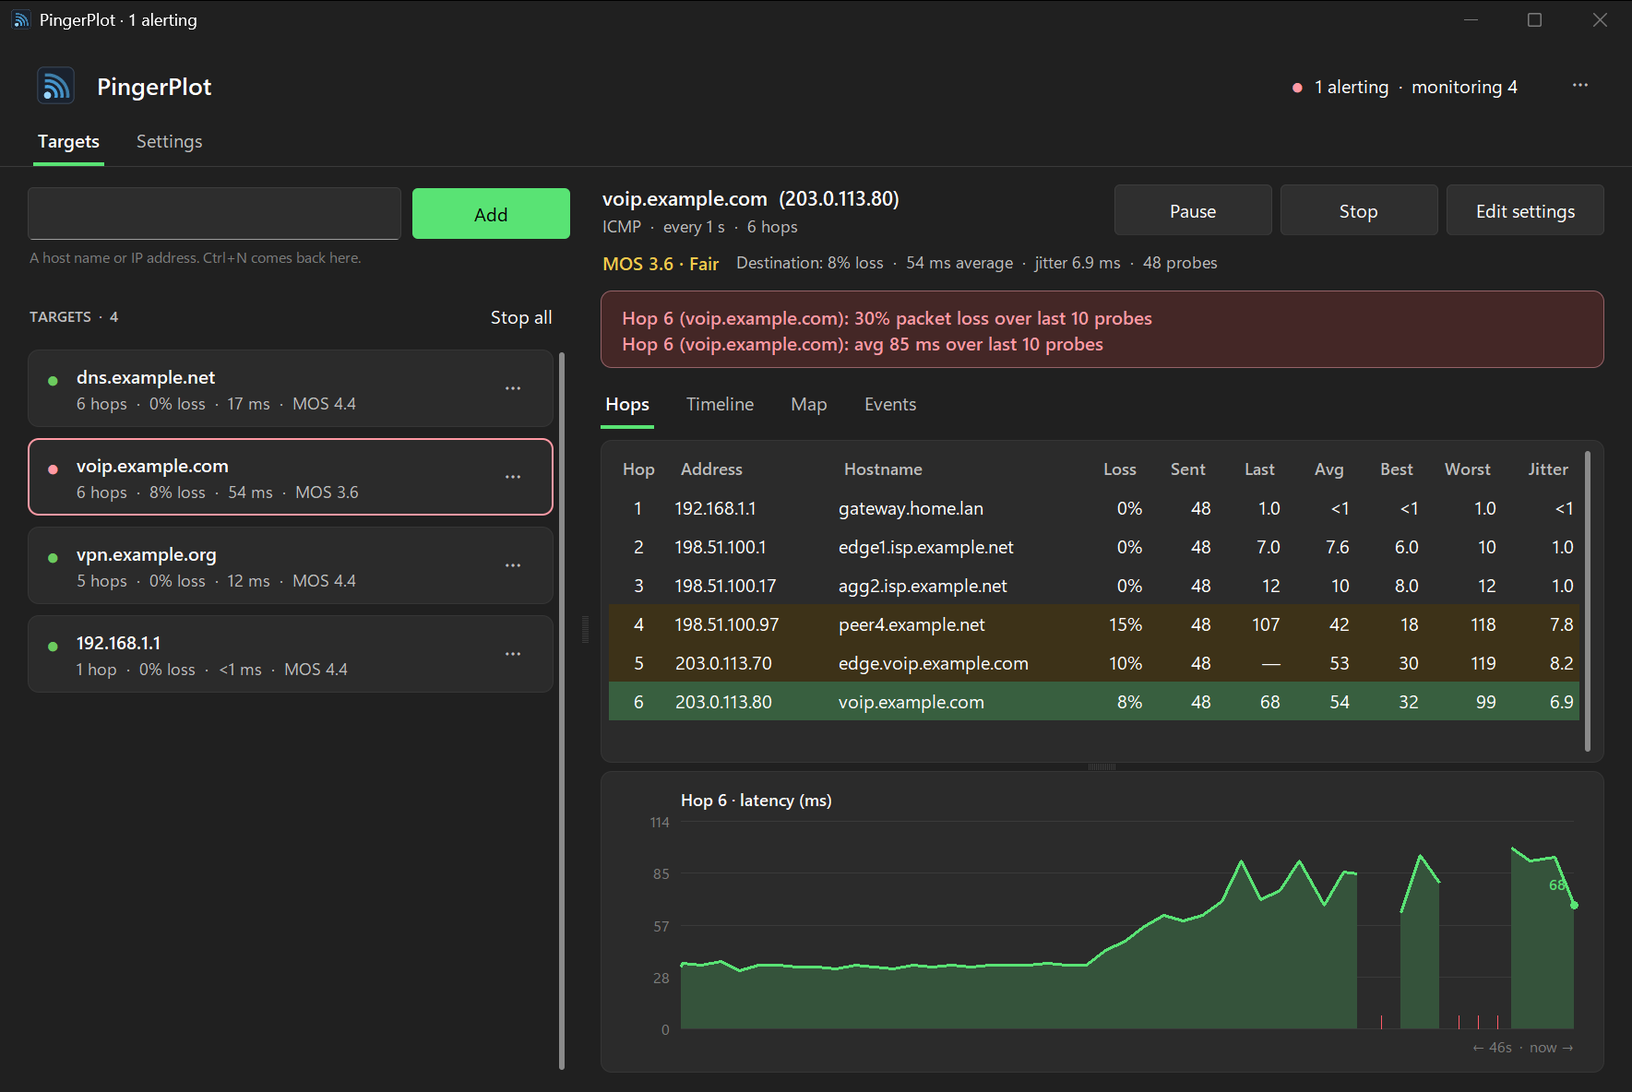
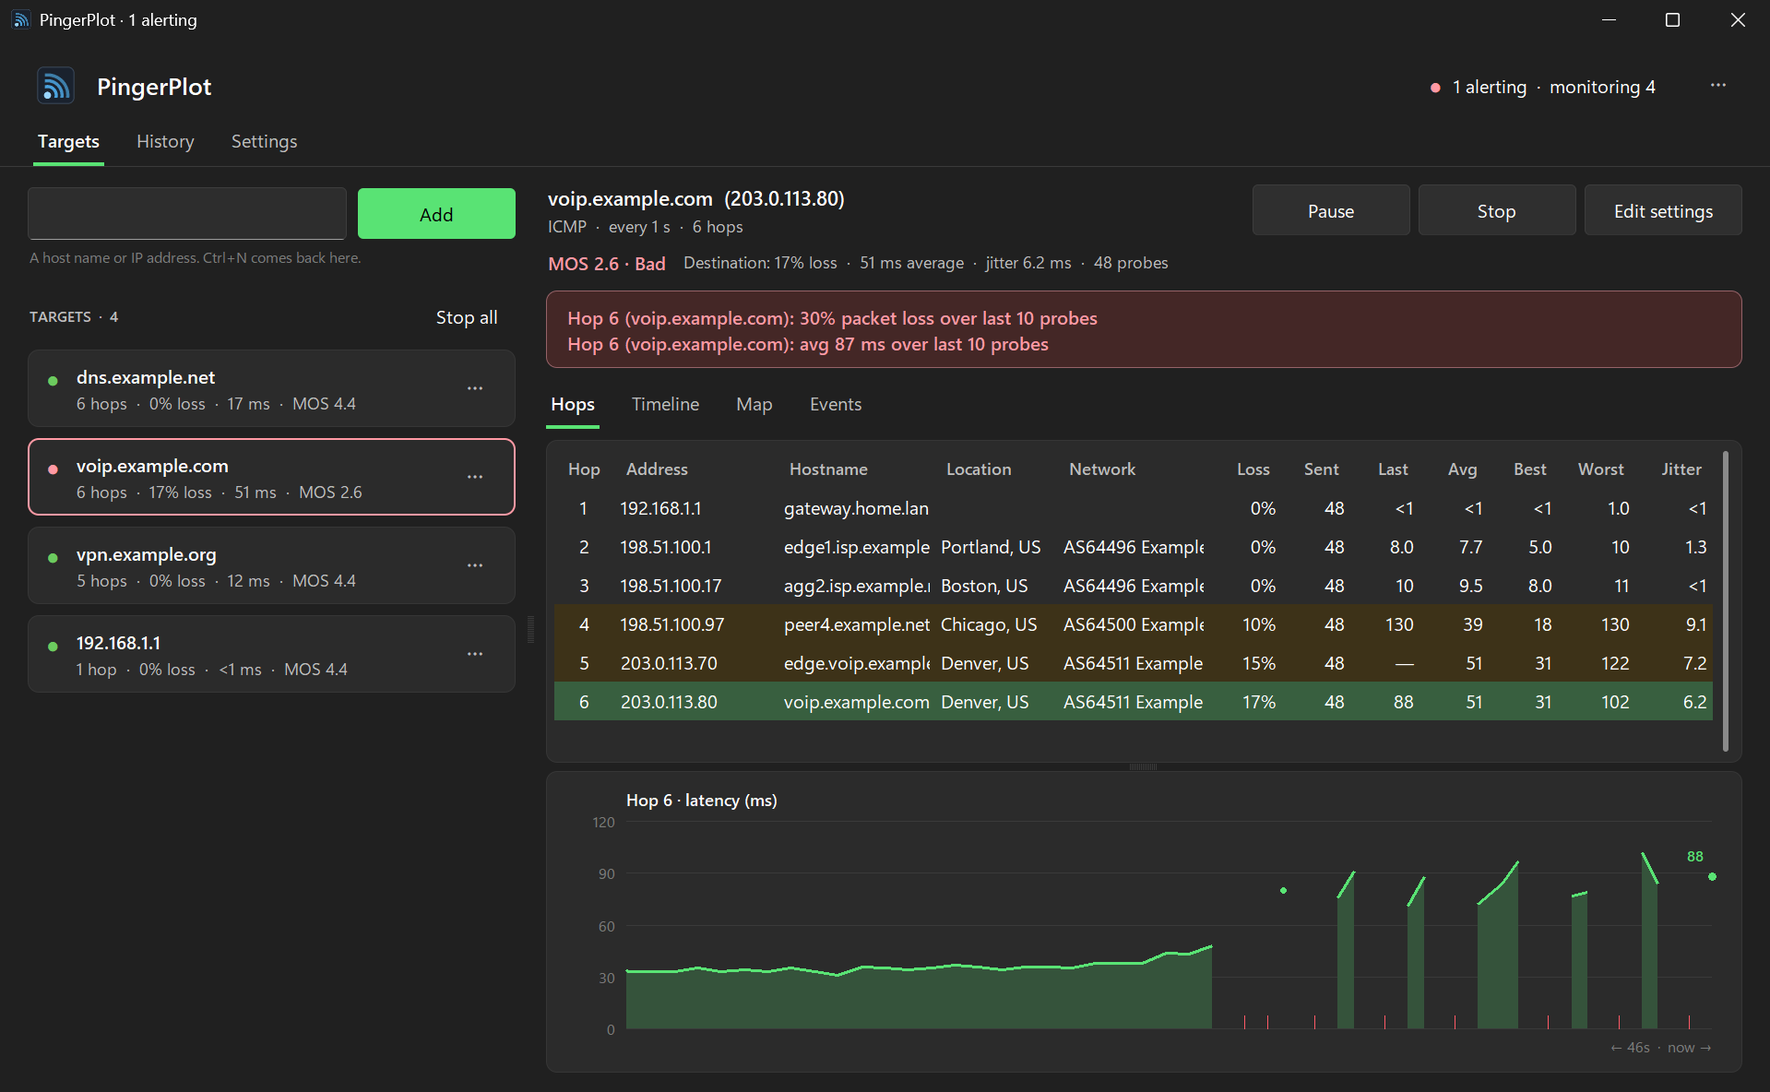
1.5.0: version, CHANGELOG, release notes, pictures and page
The README and site pictures are retaken from the demo at the new
window width: the hop table with its Location and Network columns, the
map with "where the trouble is" and an earlier route dashed, and a new
History picture. The demo seeds a few hours of pretend past (a slower,
lossy detour through Kansas City and back) so its History page has
something to show; every address is still documentation space. The
page gets cards for the history and "where the trouble is", and image
sizes to match the new pictures.

diff --git a/site/index.html b/site/index.html
@@ -133,7 +133,7 @@
       <p class="sub"><span id="version">Free and open source (MIT).</span> Windows 10 and 11 (64-bit); <a href="https://github.com/jamesccupps/PingerPlot#linux">Linux</a> with pipx. <a href="https://github.com/jamesccupps/PingerPlot/releases">All releases</a></p>
     </div>
     <figure class="demo">
-      <img src="images/hops-dark.png" width="1769" height="1184" alt="PingerPlot in the dark theme: four targets, the selected one alerting with a red banner, a hop table where trouble starts at hop 4, and the destination's latency graph">
+      <img src="images/hops-dark.png" width="1919" height="1184" alt="PingerPlot in the dark theme: four targets, the selected one alerting with a red banner, a hop table where trouble starts at hop 4, and the destination's latency graph">
       <figcaption>Demo mode: simulated paths with documentation addresses.</figcaption>
     </figure>
   </div>
@@ -146,10 +146,12 @@
       <div class="card"><h3>Every hop, all the time</h3><p>Each round is a full traceroute, so every hop gets current, average, best and worst latency, jitter and loss over minutes or days, not one snapshot.</p></div>
       <div class="card"><h3>The path over time</h3><p>The Timeline draws every hop on one time axis. A latency step shows up as the row where the bars get tall, and stays tall for every hop after it.</p></div>
       <div class="card"><h3>Alerts that mean something</h3><p>Sustained loss, latency or a poor MOS at the destination, over a window you choose, never a router in the middle that just deprioritizes ICMP. A banner, a notification, a sound, and a webhook to Slack, Teams, ntfy or Home Assistant.</p></div>
-      <div class="card"><h3>Route changes, live</h3><p>A hop whose router changes, or a path that grows or shrinks, is caught within a round and written to the Events list.</p></div>
+      <div class="card"><h3>Route changes, live</h3><p>A router that takes over a hop and stays is a reroute, reported once; routers that take turns are load balancing, noted once. A name that DNS moves to another server is followed.</p></div>
+      <div class="card"><h3>Everything recorded</h3><p>Every probe, the router that answered it, every event and every route go into a history on your PC, with nothing to set up. The History page shows any hour of the last year: which route was slow, which router dropped probes.</p></div>
+      <div class="card"><h3>Where the trouble is</h3><p>Each router's city, from its name or the IP database, and whose network it's on. Under the map, the place that adds the delay and the place where loss reaching the destination begins.</p></div>
       <div class="card"><h3>ICMP, TCP and UDP</h3><p>ICMP needs no administrator rights. TCP to a port answers "is this service up, and how fast?". DSCP marking measures the path as voice or video traffic would see it, and a fixed source address picks the interface.</p></div>
       <div class="card"><h3>MOS for calls</h3><p>The ITU-T E-model's 1 to 5 voice-quality score for the destination: one number for whether the path is good enough for a call, and an alert when it isn't.</p></div>
-      <div class="card"><h3>A record you can compare</h3><p>Every probe to a size-capped CSV per target, sessions you can save and reopen, and a per-hop comparison with an earlier run that calls a changed router "rerouted" rather than inventing a difference.</p></div>
+      <div class="card"><h3>A record you can compare</h3><p>Export any range of the history as CSV, save and reopen sessions, and compare hop by hop with an earlier run that calls a changed router "rerouted" rather than inventing a difference.</p></div>
       <div class="card"><h3>In the background, or headless</h3><p>Closing the window keeps monitoring from the notification area; Start with Windows puts it there when you sign in. A headless runner does the same for a server or Task Scheduler, with one-shot reports for tickets.</p></div>
       <div class="card"><h3>Signed updates, nothing else sent</h3><p>The installer and the programs are code-signed by James Cupps. It checks GitHub once a day and installs a new version with one click, only if the download carries the release signature built into the app. Probes go only to your targets; where routers are is asked of ipwho.is with their address alone, about once a month each, and Settings turns it off.</p></div>
     </div>
@@ -158,11 +160,12 @@
   <section>
     <h2>A closer look</h2>
     <div class="shots">
-      <figure><img src="images/timeline-dark.png" width="1769" height="1184" alt="The Timeline view: six hops stacked on one time axis, loss and latency rising from hop 4 onwards" loading="lazy"><figcaption>Timeline: the whole path on one time axis. The trouble starts at hop 4.</figcaption></figure>
-      <figure><img src="images/hops-light.png" width="1769" height="1184" alt="The Hops view in the light theme" loading="lazy"><figcaption>The Hops view in the light theme. Rows turn amber or red on loss or latency.</figcaption></figure>
-      <figure><img src="images/events-light.png" width="1769" height="1184" alt="The Events view: a route change, alerts raised and cleared, with times" loading="lazy"><figcaption>Events: route changes and alerts as they happen.</figcaption></figure>
-      <figure><img src="images/map-dark.png" width="1769" height="1184" alt="The Map view, zoomed to the path: Portland, Boston, Chicago and Denver joined by the route" loading="lazy"><figcaption>Map: the path's public hops, zoomed to fit, when you open it.</figcaption></figure>
-      <figure><img src="images/settings-dark.png" width="1769" height="1184" alt="The Settings page: probing, alert thresholds and the app's options" loading="lazy"><figcaption>Settings: defaults for new targets, and the app's own options.</figcaption></figure>
+      <figure><img src="images/timeline-dark.png" width="1919" height="1184" alt="The Timeline view: six hops stacked on one time axis, loss and latency rising from hop 4 onwards" loading="lazy"><figcaption>Timeline: the whole path on one time axis. The trouble starts at hop 4.</figcaption></figure>
+      <figure><img src="images/hops-light.png" width="1919" height="1184" alt="The Hops view in the light theme" loading="lazy"><figcaption>The Hops view in the light theme. Rows turn amber or red on loss or latency.</figcaption></figure>
+      <figure><img src="images/events-light.png" width="1919" height="1184" alt="The Events view: a route change, alerts raised and cleared, with times" loading="lazy"><figcaption>Events: route changes and alerts as they happen.</figcaption></figure>
+      <figure><img src="images/history-light.png" width="1919" height="1184" alt="The History page: six hours of a target's latency and loss, the route in use as a colored band, and a table of routes showing the detour was slower and lost probes" loading="lazy"><figcaption>History: any hour of the last year. The detour through route 2 was slower and lost probes.</figcaption></figure>
+      <figure><img src="images/map-dark.png" width="1919" height="1184" alt="The Map view, zoomed to the path, with a table below ranking the places on it by the delay they add and the loss that starts there" loading="lazy"><figcaption>Map: the path zoomed to fit, and where the trouble is.</figcaption></figure>
+      <figure><img src="images/settings-dark.png" width="1919" height="1184" alt="The Settings page: probing, alert thresholds and the app's options" loading="lazy"><figcaption>Settings: defaults for new targets, and the app's own options.</figcaption></figure>
     </div>
     <p class="note">All pictures are from the app's demo mode: simulated paths with documentation addresses.</p>
   </section>

diff --git a/scripts/demo.py b/scripts/demo.py
@@ -3,7 +3,8 @@
     python scripts/demo.py                  # the app, monitoring four made-up paths
     python scripts/demo.py --shots DIR      # take the README/site pictures, then quit (Windows)
 
-The real engine runs: traces, rounds, statistics, alerts, route-change events.
+The real engine runs: traces, rounds, statistics, alerts, route-change events,
+and the history (seeded with a few hours of pretend past for the History page).
 Only the network is pretend: ``icmp.ping`` answers from simulated paths, names
 resolve to made-up hosts, and the Map tab gets made-up locations. Every address
 is RFC 5737 documentation space or a private LAN address, so no picture can
@@ -110,6 +111,64 @@ PATHS = {
 NAMES = {p.name: ip for ip, p in PATHS.items()}
 REVERSE = {h.addr: h.name for p in PATHS.values() for h in p.hops}
 WHERE = {h.addr: h.where for p in PATHS.values() for h in p.hops if h.where}
+
+# The detour in voip.example.com's pretend past: hop 4 through Kansas City,
+# slower and lossy, for the History page to find.
+DETOUR = Hop("198.51.100.98", "peer7.example.net", 47.0, 5.0, loss=0.06,
+             where=(39.10, -94.58, "Kansas City", "US"))
+REVERSE[DETOUR.addr] = DETOUR.name
+WHERE[DETOUR.addr] = DETOUR.where
+
+
+def seed_history(hours=4.0, step=10.0):
+    """Hours of pretend past for voip.example.com in the (temporary)
+    history, so the History page has something to show: a reroute through
+    Kansas City that was slower and lost probes, an alert, and the way back.
+    The same simulated network as the rest of the demo."""
+    from pingerplot import history
+    hops = PATHS["203.0.113.80"].hops
+    now = time.time()
+    t0 = now - hours * 3600
+    away, back = now - 2.5 * 3600, now - 1.6 * 3600
+    clock = [t0]
+    rec = history.Recorder(clock=lambda: clock[0]).start()
+    run = rec.begin_run("voip.example.com", "icmp", None, dict(DEMO_OPTIONS))
+    rec.set_target_ip(run, "203.0.113.80")
+    rnd = random.Random(7)
+    detoured = None
+    t, n = t0, 0
+    while t < now - 120:
+        clock[0] = t
+        on = away <= t < back
+        if on != detoured:
+            route = [[h.addr] for h in hops]
+            if on:
+                route[3] = [DETOUR.addr]
+            rec.route(run, t, route)
+            if detoured is not None:
+                a, b = (hops[3].addr, DETOUR.addr) if on else (DETOUR.addr, hops[3].addr)
+                rec.event(run, t, "route", f"Route changed at hop 4: {a} -> {b}")
+            detoured = on
+        for ttl, h in enumerate(hops, 1):
+            if on and ttl == 4:
+                h = DETOUR
+            worse = on and ttl >= 4
+            if rnd.random() < h.loss + (0.08 if worse else 0):
+                rec.probe(run, t, n, ttl, None, None, IP_REQ_TIMED_OUT)
+                continue
+            ms = h.ms + (16 if worse and ttl > 4 else 0)
+            rtt = max(0.2, rnd.gauss(ms, h.jitter + (4 if worse else 0)))
+            rec.probe(run, t, n, ttl, h.addr, rtt,
+                      IP_SUCCESS if ttl == len(hops) else IP_TTL_EXPIRED_TRANSIT)
+        t, n = t + step, n + 1
+    rec.event(run, away + 900, "alert", "Hop 6 (voip.example.com): 15% packet loss over last 10 probes")
+    rec.event(run, back + 30, "clear",
+              "Cleared (route changed): Hop 6 (voip.example.com): 15% packet loss over last 10 probes")
+    for h in [*hops, DETOUR]:
+        rec.name(h.addr, h.name)
+    clock[0] = now - 120
+    rec.end_run(run)
+    rec.close()
 
 
 def pretend_ping(dest_ip, ttl=128, timeout_ms=1000, payload=b"", tos=0, source_ip=None):
@@ -249,6 +308,7 @@ SHOTS = [
     ("map-dark.png", "dark", "map"),
     ("events-light.png", "light", "events"),
     ("settings-dark.png", "dark", "settings"),
+    ("history-light.png", "light", "history"),
 ]
 
 
@@ -259,15 +319,19 @@ def take(out, name, theme_name, tab, warmup):
     from pingerplot import gui, settings, winplatform
     settings.save({"theme": theme_name, "resume_on_launch": False})
     install()
+    seed_history()
     winplatform.enable_dpi_awareness()
     root = tk.Tk()
     app = gui.App(root)
-    root.geometry(f"{app.s(1180)}x{app.s(760)}+40+40")
+    root.geometry(f"{app.s(1280)}x{app.s(760)}+40+40")
     start_demo(app)
 
     def shoot():
         if tab == "settings":
             app.nav.select("settings", notify=True)
+        elif tab == "history":
+            app.nav.select("history", notify=True)
+            app.history_page.range_var.set("Last 6 hours")
         else:
             app.detail_nav.select(tab, notify=True)
         app._refresh_once()
@@ -294,6 +358,7 @@ def main():
     import tkinter as tk
     from pingerplot import gui, winplatform
     install()
+    seed_history()
     winplatform.enable_dpi_awareness()
     root = tk.Tk()
     app = gui.App(root)

diff --git a/pingerplot/__init__.py b/pingerplot/__init__.py
@@ -5,4 +5,4 @@ Npcap are required for ICMP: Windows uses the IP Helper API via ctypes, and
 Linux/macOS use unprivileged SOCK_DGRAM ICMP sockets (see icmp_posix).
 """
 
-__version__ = "1.4.6"
+__version__ = "1.5.0"

diff --git a/CHANGELOG.md b/CHANGELOG.md
@@ -4,7 +4,11 @@ All notable changes to PingerPlot are recorded here. The format follows
 [Keep a Changelog](https://keepachangelog.com/en/1.1.0/), and the project uses
 [semantic versioning](https://semver.org/).
 
-## [Unreleased]
+## [1.5.0] — 2026-11-13
+
+Everything PingerPlot measures is recorded, a History page to look back through it,
+reroutes and DNS moves tracked, where each router is and whose network it's on,
+and where on the path the trouble is.
 
 ### Added
 
@@ -22,9 +26,9 @@ All notable changes to PingerPlot are recorded here. The format follows
   headless runner takes the same options as a `recording` object in its
   config.
 - **Route history.** Each distinct route to a target is recorded, with when it
-  was in use; a route that comes back is recognised as the same one.
+  was in use; a route that comes back is recognized as the same one.
 - **A History page**: a target's latency and loss over the last hour to the
-  last year (stepped back and forth), with the route in use as a colour band
+  last year (stepped back and forth), with the route in use as a color band
   and reroutes and alerts marked; every route taken and how the destination
   did on each; every router seen at each hop; events filtered and searched;
   and CSV export of the range's events, minute summaries or probes. A
@@ -34,10 +38,9 @@ All notable changes to PingerPlot are recorded here. The format follows
   answers (a service sending you to another front end, say), the move is an
   event, and PingerPlot follows it: a fresh trace to the new address, and a
   new run in the history. Round-robin DNS that merely rotates isn't a move.
-
 - **Where each router is, and whose network.** The hop table gains Location
   and Network columns, and a hop's right-click menu **Details…**: where the
-  router is by its name and by the IP database (each labelled, and said when
+  router is by its name and by the IP database (each labeled, and said when
   they disagree), its network (AS number and owner), and every router seen at
   that hop in the last day. The History page's Hops tab shows the same for
   every router it lists. Router names are recorded in the history for this.
@@ -45,7 +48,6 @@ All notable changes to PingerPlot are recorded here. The format follows
   where they stand (CLLI codes like `chcgil`, airport codes like `dfw01`,
   `Dallas1`), and for the backbone that's usually right where IP geolocation
   isn't.
-
 - **Where the trouble is**, under the map: each place on the path, the delay
   it adds and the loss that starts there, worst first, with a one-line
   verdict ("Loss reaching the destination starts in Denver (hop 5, 12%); the
@@ -65,6 +67,10 @@ All notable changes to PingerPlot are recorded here. The format follows
   `lookups.json`), at most 500 a day, with an hour's pause if the service says
   to slow down. **Settings → Look up where routers are** turns it off, and the
   Map then asks only while it's open, as before.
+- **The window opens wider** (1280 instead of 1180, never wider than the
+  screen), and a table's text columns shorten before any number column is
+  pushed out of view; if a narrow window still can't fit them all, a
+  horizontal scrollbar appears. The hop graph's axis shows round numbers.
 - **Reroutes are reported once, and load balancing isn't reported as one.**
   A hop that alternates between routers used to log "path changed" every
   round or two. A new router now has to hold the hop for 3 rounds to count as
@@ -705,6 +711,7 @@ have relied on — see **Changed** before comparing old exports with new ones.
 
 - Initial public release.
 
+[1.5.0]: https://github.com/jamesccupps/PingerPlot/releases/tag/v1.5.0
 [1.4.6]: https://github.com/jamesccupps/PingerPlot/releases/tag/v1.4.6
 [1.4.5]: https://github.com/jamesccupps/PingerPlot/releases/tag/v1.4.5
 [1.4.4]: https://github.com/jamesccupps/PingerPlot/releases/tag/v1.4.4

diff --git a/release-notes/v1.5.0.md b/release-notes/v1.5.0.md
@@ -1,0 +1,30 @@
+Everything PingerPlot measures is recorded, with a History page to look back through it. Reroutes and DNS moves are tracked, every router shows where it is and whose network it's on, and the map says where on the path the trouble is.
+
+**On 1.4.x?** PingerPlot offers this update by itself (or ⋯ → **Check for updates**): click **Install and restart**. Otherwise: [`PingerPlot-Setup.exe`](https://github.com/jamesccupps/PingerPlot/releases/download/v1.5.0/PingerPlot-Setup.exe) (installs for your Windows user, no admin prompt) or [`PingerPlot-win64.zip`](https://github.com/jamesccupps/PingerPlot/releases/download/v1.5.0/PingerPlot-win64.zip) (portable). Scoop: `scoop update pingerplot`. On Linux: `pipx reinstall pingerplot`. The downloads are code-signed by James Cupps; `SHA256SUMS.txt` lists every file's hash.
+
+### Everything recorded
+
+- **History, on by default, nothing to set up.** Every probe and the router that answered it, per-minute stats for each hop, every event, and every route go into one database on your PC (`history\history.sqlite3` in the settings folder), from the window and the headless runner alike. Nothing is sent anywhere.
+- **Settings → Recording** turns it off, sets how long each part is kept (probes 7 days, summaries and events a year) and the size limit (1 GB), picks what's recorded, opens the folder or clears it. Changes apply at once, to running targets too.
+- **Robust:** writes happen in the background so probing never waits; a crash loses at most a second; a damaged file is set aside and a new one started; a full disk is a warning in Events, not silent loss. A webhook address is never written to it.
+
+### The History page
+
+Any hour of the last year for a target, stepped back and forth: latency and loss with the route in use as a color band and reroutes and alerts marked; **Routes**, with how the destination did on each, so the bad path stands out; **Hops**, every router seen at each hop and how it did; **Events**, filtered and searched; and CSV export of any range. A target's right-click menu has **Show history**.
+
+### Reroutes and moves
+
+- **A reroute is reported once, and load balancing isn't reported as one.** A router has to hold a hop for 3 rounds to count as a reroute; routers that take turns at a hop are noted once as load balancing.
+- **A name that moves is followed.** A target given by name is looked up again every 5 minutes; if DNS sends you to a different server, that's an event and PingerPlot traces the route to the new address. Round-robin DNS that only reshuffles isn't a move.
+
+### Where routers are, and where the trouble is
+
+- **Location and Network columns**, and **Details…** on a hop's right-click menu: where the router is by its name and by the IP database (each labeled), whose network it's on, and every router seen at that hop in the last day.
+- **A router's city from its name** (`chcgil`, `dfw01`, `Dallas1`), offline. For backbone routers that's usually right where IP geolocation isn't.
+- **Under the map, where the trouble is:** each place on the path, the delay it adds and the loss that starts there and carries to the destination, with a one-line verdict. Loss that stops at a router is that router ignoring pings and isn't blamed. Routers are placed by their name first, and the target's other routes from the last day are dashed underneath.
+
+### Privacy
+
+Router lookups now run while monitoring, not only while the Map is open, so the tables and history can say where routers are. Only public router addresses go to ipwho.is (never private or LAN ones), each about once a month, at most 500 a day. **Settings → Look up where routers are** turns it off; the Map then asks only while it's open, as before.
+
+The full list is in the [CHANGELOG](https://github.com/jamesccupps/PingerPlot/blob/main/CHANGELOG.md).

diff --git a/ROADMAP.md b/ROADMAP.md
@@ -6,9 +6,8 @@ What's planned or been asked for, roughly in order. Ideas welcome as
 ## Next
 
 1.4 (an installer and a portable zip, signed in-app updates, the notification area, Start with Windows, the
-new window, a project page) is done; see the [CHANGELOG](CHANGELOG.md). 1.5 (everything recorded, the History
-page, reroutes and DNS moves tracked, where routers are and whose, the map's "where the trouble is") is on `main`,
-unreleased. Next up:
+new window, a project page) and 1.5 (everything recorded, the History page, reroutes and DNS moves tracked, where
+routers are and whose, the map's "where the trouble is") are done; see the [CHANGELOG](CHANGELOG.md). Next up:
 
 - **winget and SourceForge** listings, as the sibling projects have, so `winget install PingerPlot` works. The
   SourceForge listing is ready to paste ([packaging/sourceforge](packaging/sourceforge/README.md)).

diff --git a/README.md b/README.md
@@ -265,7 +265,7 @@ and which route each target was on, when. It goes into one SQLite database on th
 **The History page** (next to Targets) shows what a target did over a span of time: the last hour to the last year,
 stepped back and forth with **Earlier** and **Later**, or opened from a target's right-click menu (**Show history**).
 
-- A chart of the destination's latency and loss, with the route in use drawn as a numbered colour band above it
+- A chart of the destination's latency and loss, with the route in use drawn as a numbered color band above it
   and reroutes and alerts marked. Hovering reads out the moment under the pointer.
 - **Routes**: each route taken in the range, how long and what share of the time, and the destination's latency
   and loss while on it, so the bad path stands out.
